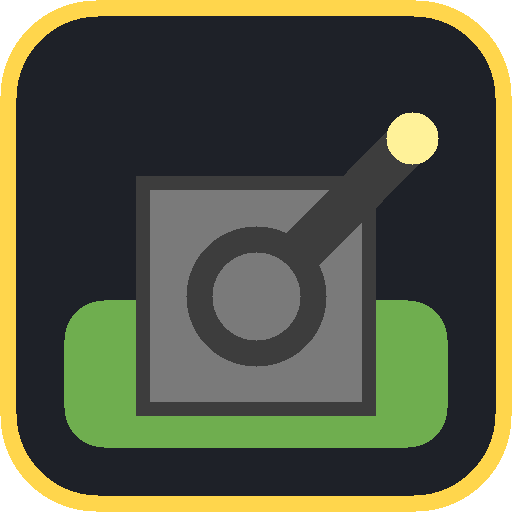
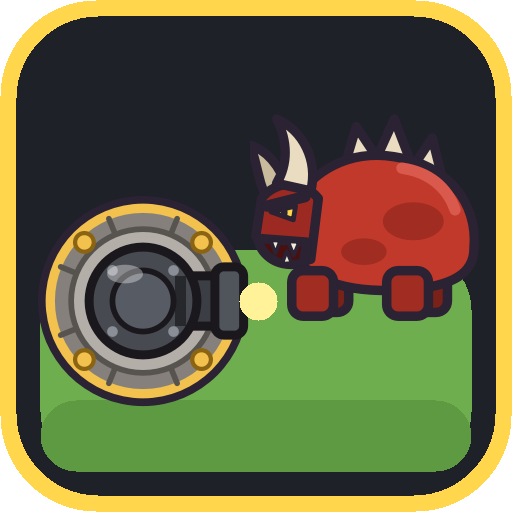
T76: ícono del juego con los dibujos (también en el .exe)

diff --git a/specs/03-tareas.md b/specs/03-tareas.md
@@ -392,10 +392,11 @@
 
 > Cada comportamiento nuevo es un **dato** (RF-164): las tareas agregan campos a los datos y el código que los usa, nunca casos especiales por torre o enemigo.
 
-- [ ] **T76 · Ícono del juego**
+- [x] **T76 · Ícono del juego**
   `tools/make_icon.gd` arma el ícono con los dibujos (una torre frente a una bestia). El mismo ícono en la ventana, el `.exe` y el `.apk`.
   **Refs:** RF-159.
   **Hecho cuando:** `assets/icon.png` muestra los dibujos y el `.exe` exportado tiene ese ícono.
+  **Resultado:** la torre de nivel 3 con el Cañón disparándole al Jefe, sobre pasto. Godot 4.7 pone el ícono en el `.exe` sin herramientas externas (`application/icon` en `export_presets.cfg`); se comprobó sacándolo del archivo exportado.
 
 - [ ] **T77 · Barra para 8 torres**
   Botones compactos (dibujo, costo, tecla), `TowerData.description` y el cartel con nombre, costo y frase al elegir una torre; teclas 5–8.
